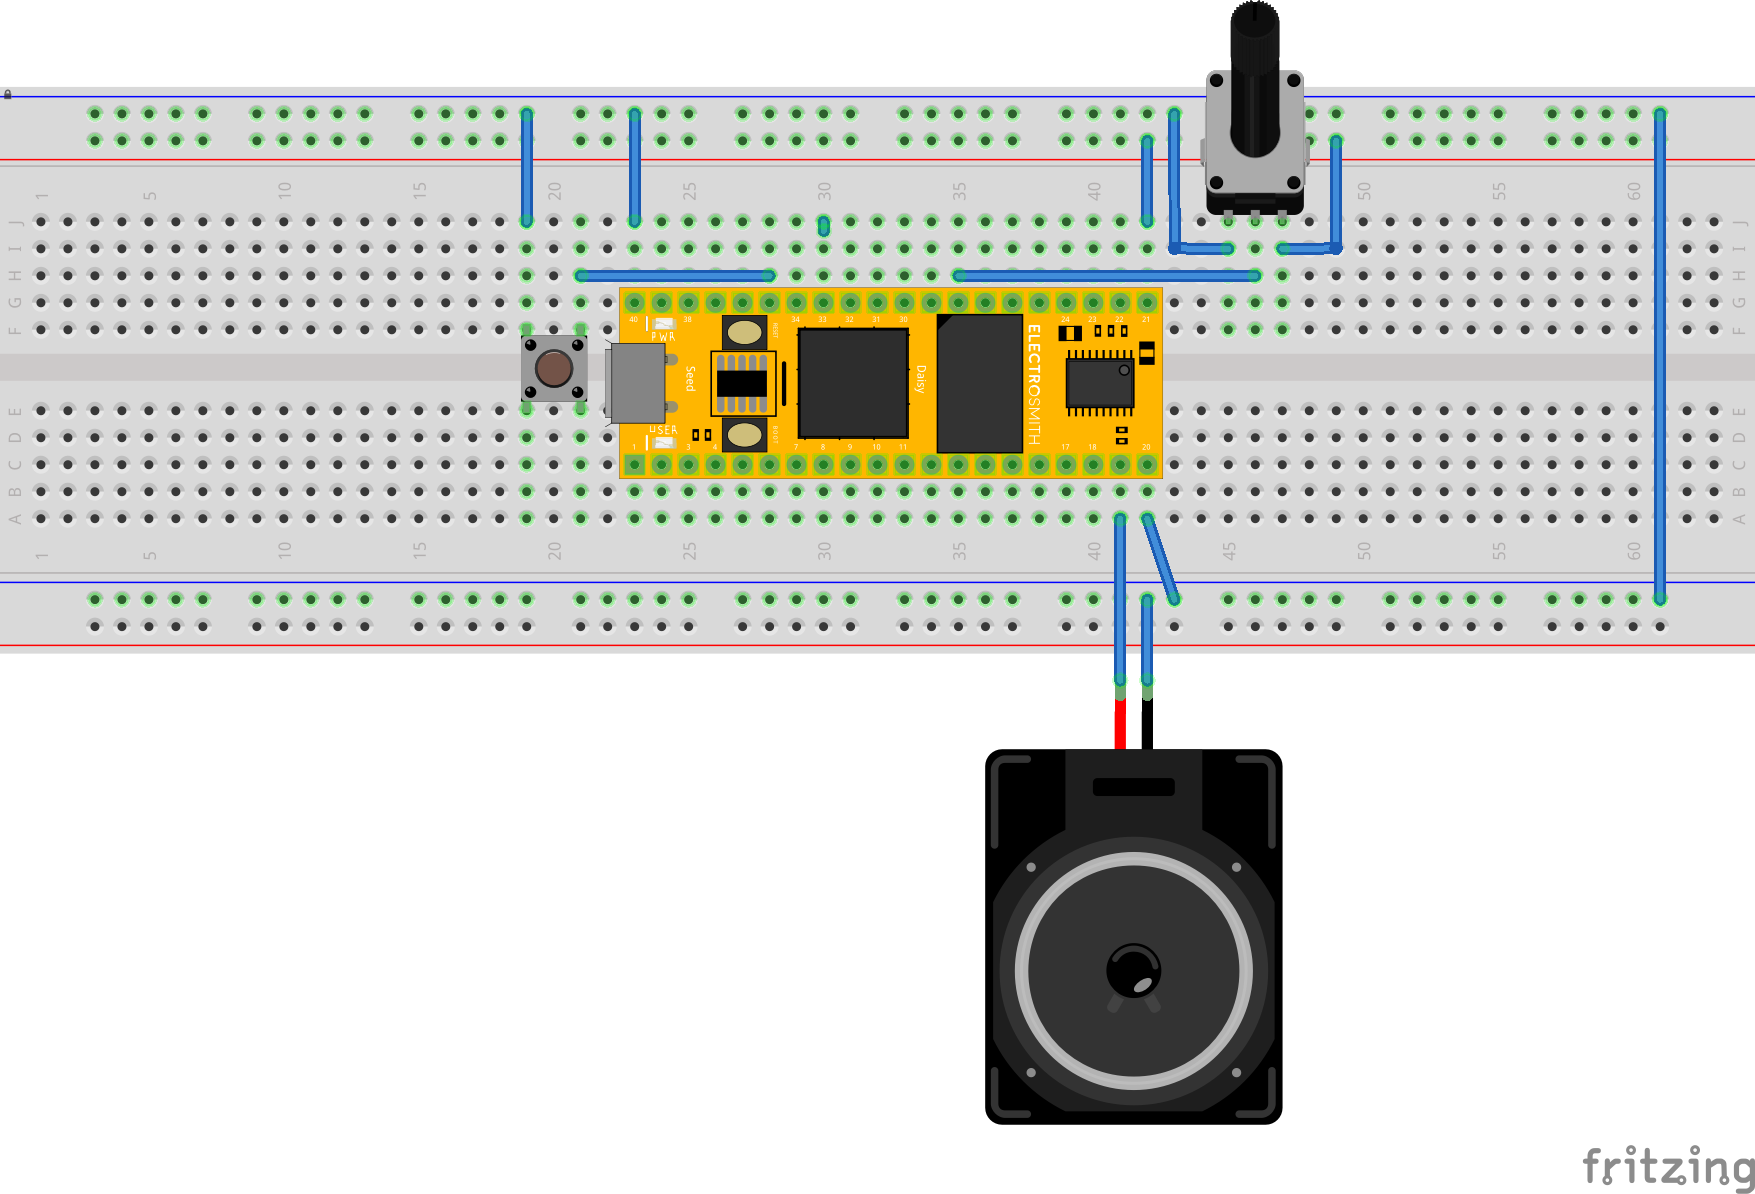
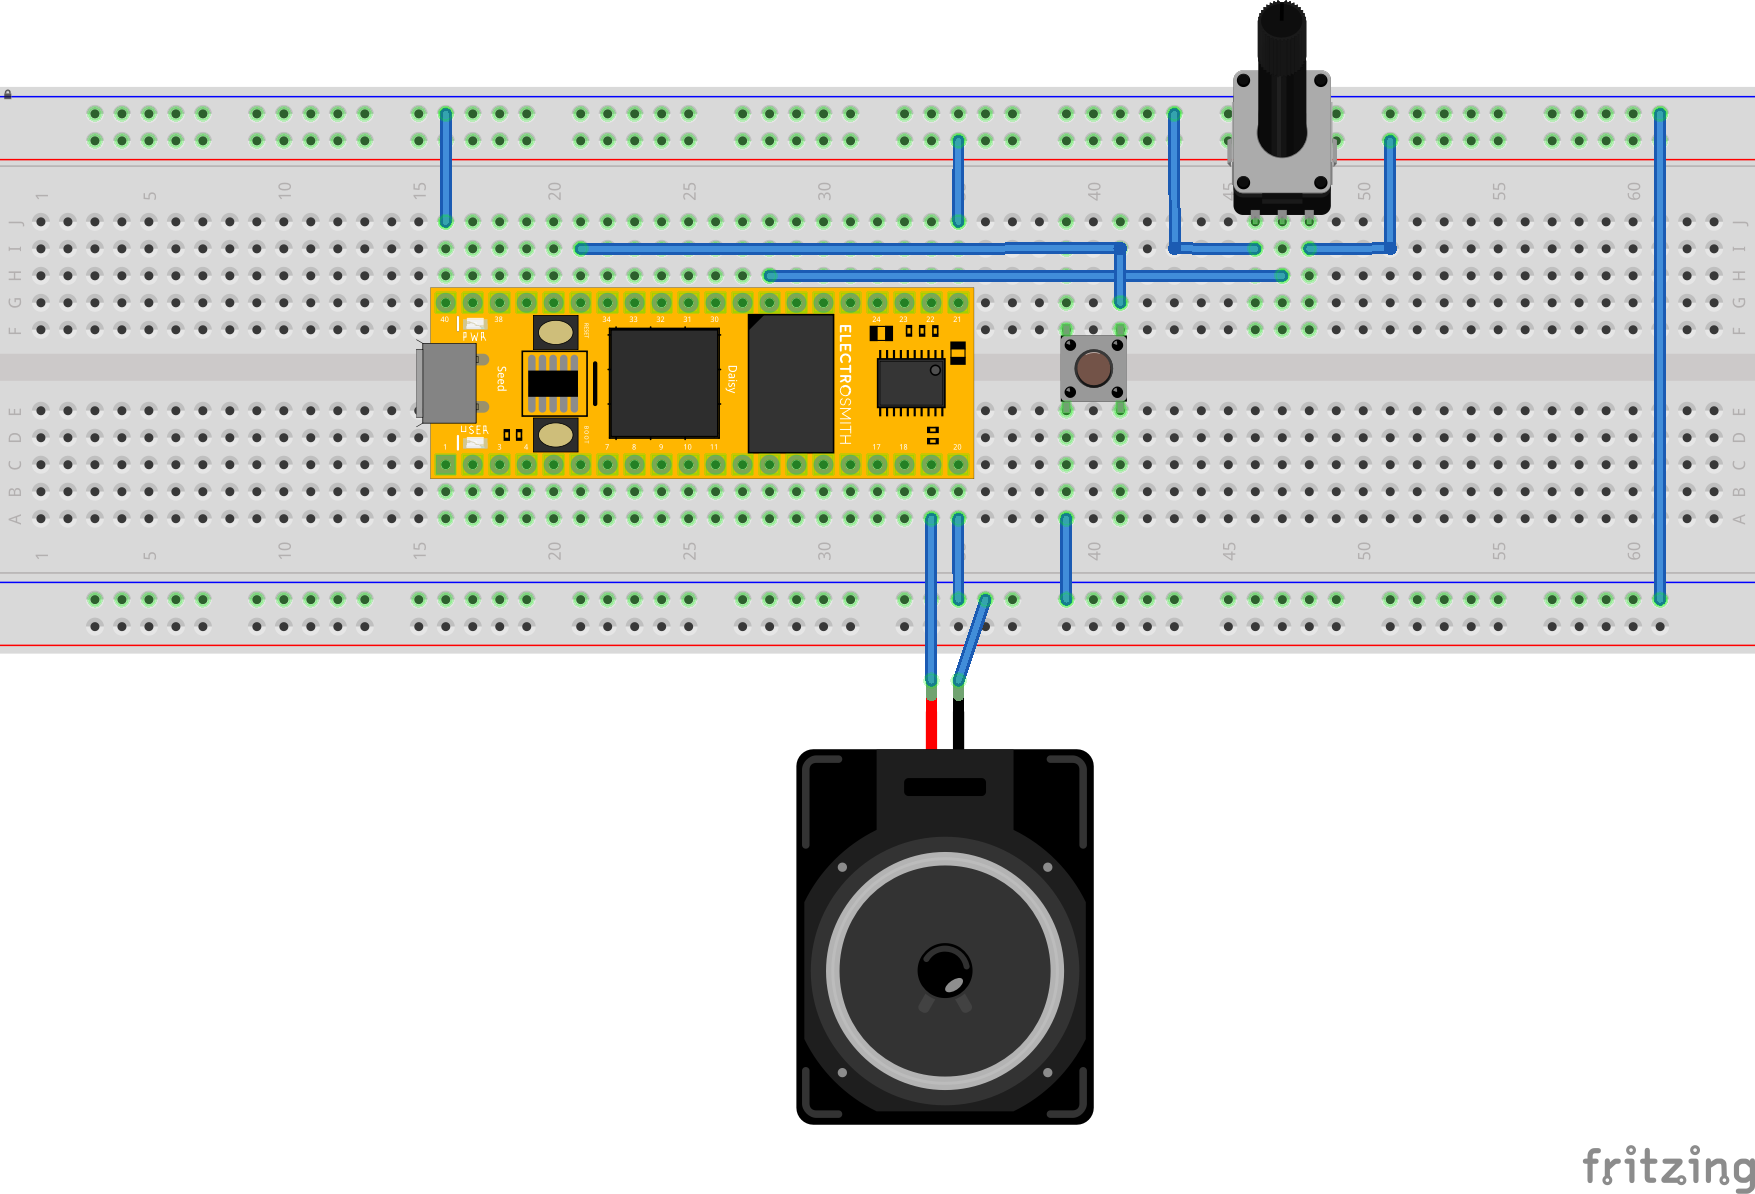
fixed bb and readme

Changed region(s): [[0.2154, 0.0, 0.8, 0.9606]]

diff --git a/seed/SeedOsc/README.md b/seed/SeedOsc/README.md
@@ -6,7 +6,7 @@ Button between ground and pin 28.
 Knob across power and ground. Sensor pin connected to seed pin 21.
 
 # Schematic
-![SeedOsc_schem.png](https://github.com/electro-smith/DaisyExamples/blob/master/seed/SeedOsc/resource/SeedOsc_schem.png)
+![SeedOsc_schem.png](https://github.com/electro-smith/DaisyExamples/blob/master/seed/SeedOsc/resources/SeedOsc_schem.png)
 
 # Breadboard
-![SeedOsc_bb.png](https://github.com/electro-smith/DaisyExamples/blob/master/seed/SeedOsc/resource/SeedOsc_bb.png)
+![SeedOsc_bb.png](https://github.com/electro-smith/DaisyExamples/blob/master/seed/SeedOsc/resources/SeedOsc_bb.png)
